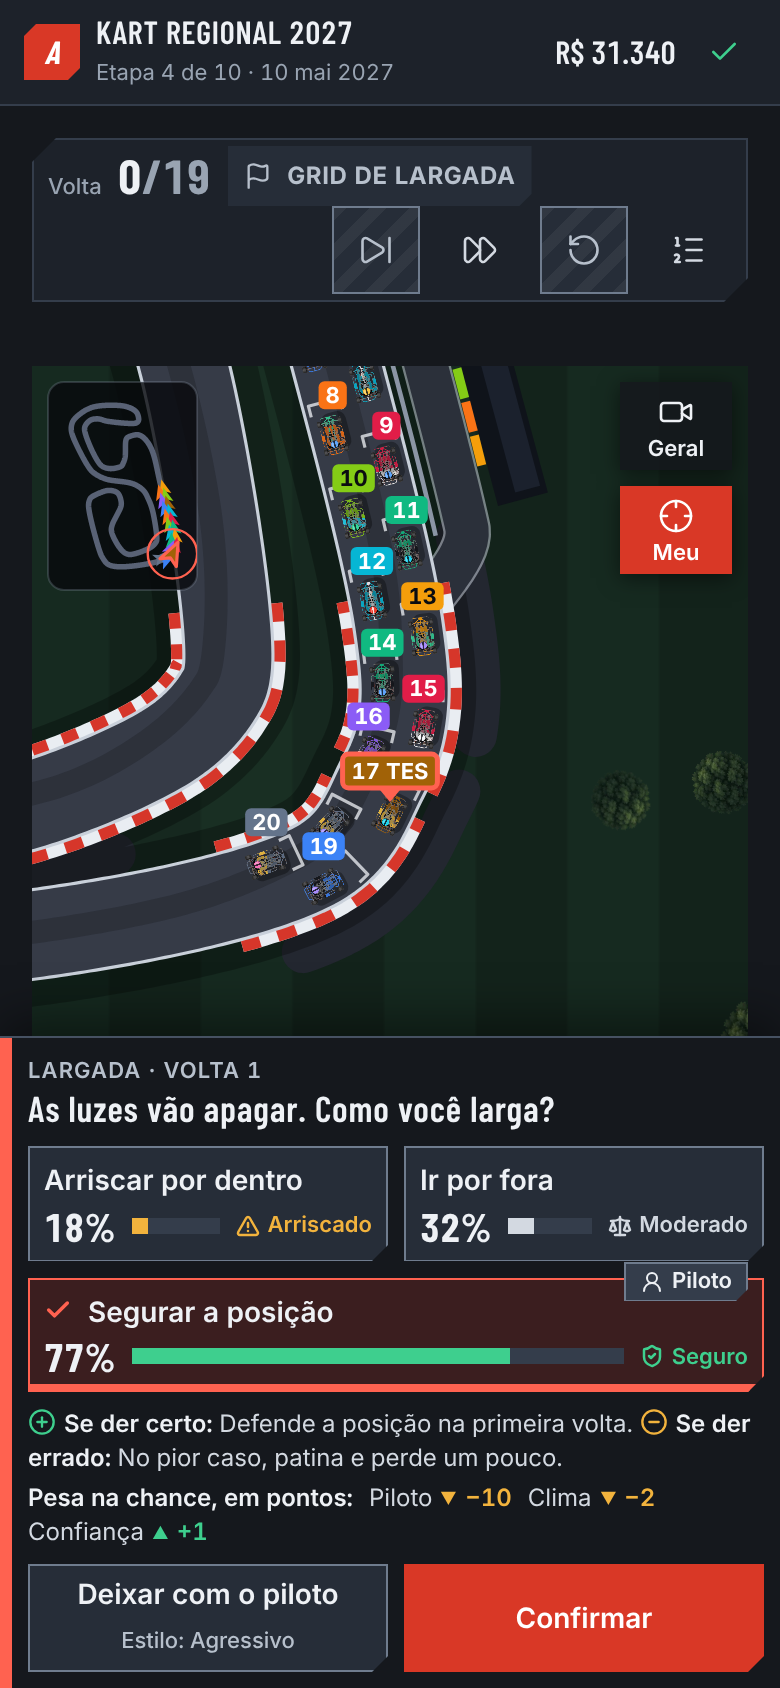
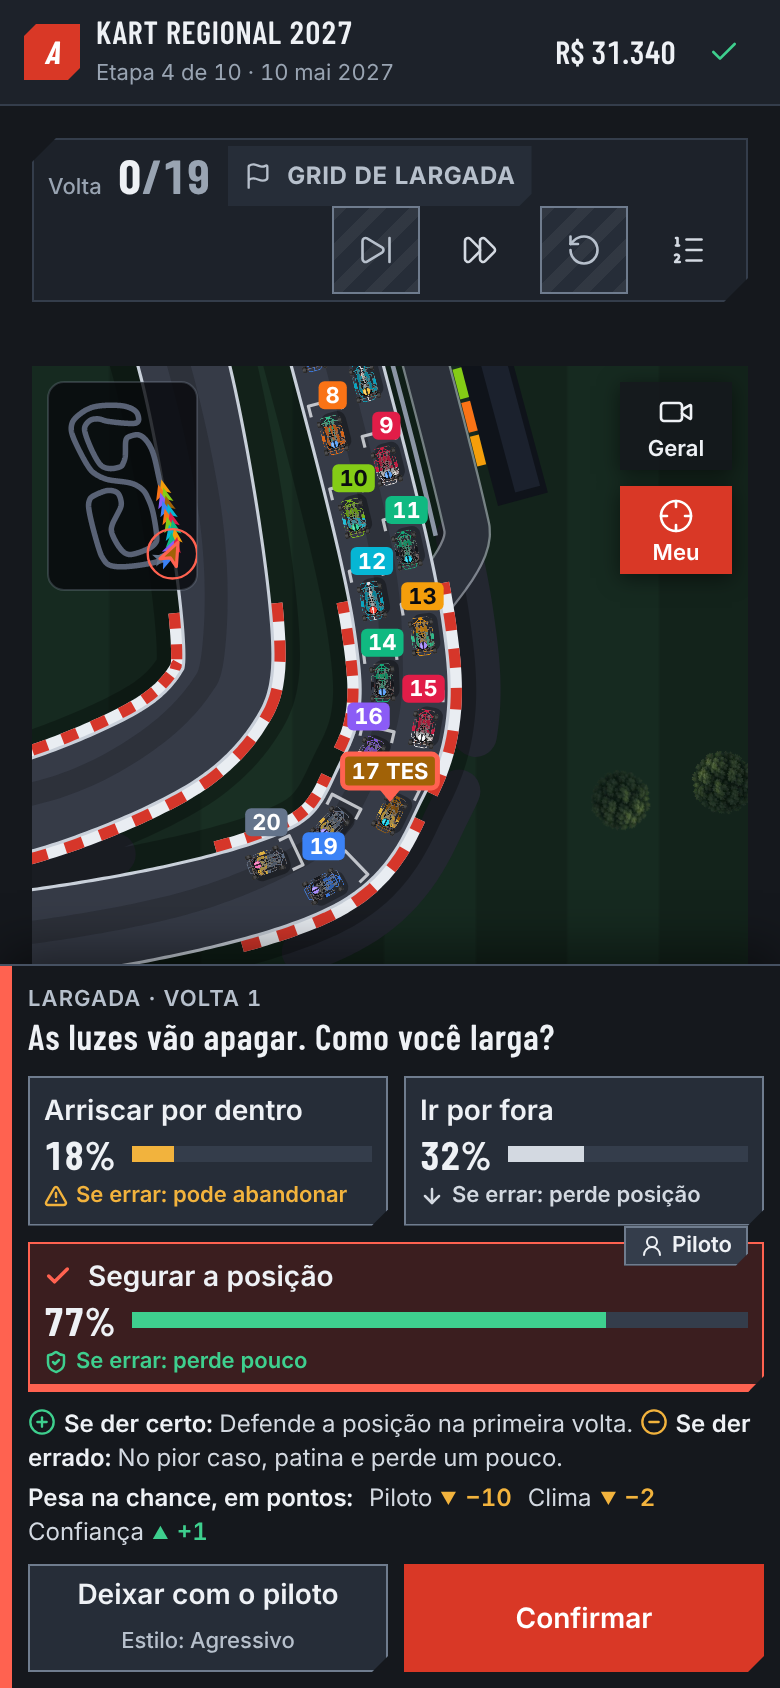
Fase 4: a opção do lance mostra "Se errar: …" no lugar de Seguro/Moderado/Arriscado
Ao lado da chance, o rótulo de risco parecia a nota da própria chance ("26% Seguro"
ao lado de "85% Arriscado"). Agora cada opção diz, numa linha só dela, o tamanho do
prejuízo se der errado: "Se errar: perde pouco", "perde posição" ou "pode abandonar".
A opção que não tem como dar errado mostra "Sem risco".

- O relatório do simulador mantém a coluna "Risco" com os nomes de antes (sai idêntico).
- Teste novo: só a opção que "pode abandonar" tem batida na conta; as outras não têm incidente.
- Prints refeitos; catálogo, Ajuda e documento de design acompanham.

Refs #19

Claude-Session: https://claude.ai/code/session_01Svp5tgkZadUDz3TveggxDZ

Changed region(s): [[0.0, 0.5545, 0.9846, 0.8318]]

diff --git a/src/ui/kit/Decision.tsx b/src/ui/kit/Decision.tsx
@@ -6,13 +6,14 @@
  * - `DecisionBar` é a moldura. Quem a usa decide onde ela fica (presa ao pé da tela, na corrida) e
  *   o que entra em cada parte. É um diálogo que não trava o resto da tela: a pista continua à
  *   vista atrás e acima dela.
- * - `ChanceOption` é o botão de cada opção: o nome, a chance de dar certo em número e em barra e
- *   o risco em palavra, com ícone. A cor acompanha, nunca vai sozinha, e não existe vermelho para
- *   "ruim": seguro é verde, moderado é neutro e arriscado é âmbar.
+ * - `ChanceOption` é o botão de cada opção: o nome, a chance de dar certo em número e em barra e,
+ *   na linha de baixo, o tamanho do prejuízo se der errado ("Se errar: perde pouco", "perde
+ *   posição", "pode abandonar"), com ícone. A cor acompanha, nunca vai sozinha, e não existe
+ *   vermelho para "ruim": perder pouco é verde, perder posição é neutro e poder abandonar é âmbar.
  */
-import { Check, Scale, ShieldCheck, TriangleAlert } from 'lucide-react';
+import { ArrowDown, Check, ShieldCheck, TriangleAlert } from 'lucide-react';
 import type { ReactNode, Ref } from 'react';
-import { MOMENT_RISK_LABELS } from '@/domain/labels';
+import { MOMENT_LOSS_LABELS, MOMENT_NO_LOSS_LABEL } from '@/domain/labels';
 import { cx, type Tone } from './cx';
 import { ProgressBar } from './ProgressBar';
 
@@ -93,7 +94,7 @@ export function DecisionBar({
 
 const RISK_TONE: Record<0 | 1 | 2, Tone> = { 0: 'good', 1: 'neutral', 2: 'attention' };
 const RISK_TEXT: Record<0 | 1 | 2, string> = { 0: 'text-go-400', 1: 'text-ink-200', 2: 'text-gold-400' };
-const RISK_ICON = { 0: ShieldCheck, 1: Scale, 2: TriangleAlert } as const;
+const RISK_ICON = { 0: ShieldCheck, 1: ArrowDown, 2: TriangleAlert } as const;
 
 export function ChanceOption({
   label,
@@ -110,7 +111,7 @@ export function ChanceOption({
   label: string;
   /** Chance de dar certo, de 0 a 1. */
   chance: number;
-  /** 0 = seguro, 1 = moderado, 2 = arriscado. */
+  /** O prejuízo se der errado: 0 = perde pouco, 1 = perde posição, 2 = pode abandonar. */
   risk: 0 | 1 | 2;
   selected: boolean;
   onSelect: () => void;
@@ -125,13 +126,15 @@ export function ChanceOption({
 }) {
   const percent = Math.round(chance * 100);
   const Icon = RISK_ICON[risk];
+  // Chance de 100% é a opção que não tem como dar errado: não há "se errar" a mostrar.
+  const loss = chance >= 1 ? MOMENT_NO_LOSS_LABEL : `Se errar: ${MOMENT_LOSS_LABELS[risk]}`;
   return (
     <div className={cx('relative flex min-w-0', className)}>
       <button
         type="button"
         role="radio"
         aria-checked={selected}
-        aria-label={`${label}: ${percent}% de chance de dar certo, ${MOMENT_RISK_LABELS[risk].toLowerCase()}${badgeLabel ? `, ${badgeLabel}` : ''}`}
+        aria-label={`${label}: ${percent}% de chance de dar certo; ${loss.toLowerCase()}${badgeLabel ? `, ${badgeLabel}` : ''}`}
         onClick={onSelect}
         disabled={disabled}
         className={cx(
@@ -154,10 +157,11 @@ export function ChanceOption({
         <span className="flex w-full items-center gap-2">
           <span className="shrink-0 font-display text-xl font-bold leading-none">{percent}%</span>
           <ProgressBar value={percent} tone={RISK_TONE[risk]} className="min-w-4 flex-1" />
-          <span className={cx('flex shrink-0 items-center gap-1 text-2xs font-semibold leading-none', RISK_TEXT[risk])}>
-            <Icon size={12} strokeWidth={2.5} aria-hidden className="shrink-0" />
-            {MOMENT_RISK_LABELS[risk]}
-          </span>
+        </span>
+        {/* O prejuízo fica numa linha só dele, por extenso: ao lado do número ele parecia a nota da chance. */}
+        <span className={cx('flex w-full items-center gap-1 text-2xs font-semibold leading-tight', RISK_TEXT[risk])}>
+          <Icon size={12} strokeWidth={2.5} aria-hidden className="shrink-0" />
+          <span className="min-w-0">{loss}</span>
         </span>
       </button>
       {seal && (

diff --git a/src/ui/screens/HelpScreen.tsx b/src/ui/screens/HelpScreen.tsx
@@ -84,7 +84,7 @@ const TOPICS: { id: string; title: string; icon: LucideIcon; items: string[] }[]
       `${capitalize(categoryRef(FIRST_FORMULA_CATEGORY_ID, 'de'))} em diante há estratégia de pneus, paradas, combustível, safety car e chuva que muda no meio da prova.`,
       'As decisões pendentes (eventos) precisam ser resolvidas antes de abrir o fim de semana.',
       'A corrida é mostrada na pista e anda sozinha: em 1×, uma prova inteira leva poucos minutos. Controle a transmissão com Pausar, 1× a 8× e +1 volta, e escolha entre a câmera geral e a que acompanha o seu carro. Tocar num piloto da classificação (ou num carro) o destaca.',
-      `Lances decisivos: de ${RACE_MOMENTS.MIN_PER_RACE} a ${RACE_MOMENTS.MAX_PER_RACE} por corrida, e a largada é sempre um deles (os outros: ataque, defesa, chuva começando, parada e última volta). A corrida para, sem tempo limite, e a tarja mostra cada opção com a chance de dar certo, o risco (seguro, moderado ou arriscado), o que se ganha e o que se perde. Toque numa opção e depois em Confirmar. O desfecho aparece na pista, e um toque numa disputa pode virar rivalidade.`,
+      `Lances decisivos: de ${RACE_MOMENTS.MIN_PER_RACE} a ${RACE_MOMENTS.MAX_PER_RACE} por corrida, e a largada é sempre um deles (os outros: ataque, defesa, chuva começando, parada e última volta). A corrida para, sem tempo limite, e a tarja mostra cada opção com a chance de dar certo, o tamanho do prejuízo se der errado (perde pouco, perde posição ou pode abandonar), o que se ganha e o que se perde. Toque numa opção e depois em Confirmar. O desfecho aparece na pista, e um toque numa disputa pode virar rivalidade.`,
       'Deixar com o piloto entrega o lance ao estilo dele (cauteloso, equilibrado ou agressivo), que sai dos atributos, da confiança e do ritmo escolhido; o painel Piloto da corrida mostra qual é.',
       'Pneus: o desgaste aparece em porcentagem e em palavra (novo, bom, gasto, no limite, acabado). Cada composto tem o seu penhasco, marcado na barra: passou dali, o pneu perde segundos por volta. A tela mostra o gráfico dos tempos de volta e a janela ideal de parada; no kart, que não troca pneus, a volta em que o pneu cai do penhasco.',
       'O engenheiro fala pelo rádio só quando importa: pneu no limite, janela de parada aberta, rival que parou, carro encostando, chuva chegando.',

diff --git a/tests/moments.test.ts b/tests/moments.test.ts
@@ -13,7 +13,15 @@
  */
 import { describe, expect, it } from 'vitest';
 import { APTITUDE_EFFECTS, HISTORY_LIMITS, RACE_MOMENTS, TRAIT_EFFECTS } from '@/config/balance';
-import { DRIVING_STYLE_DESCRIPTIONS, DRIVING_STYLE_LABELS, MOMENT_FACTOR_LABELS, MOMENT_KIND_LABELS, MOMENT_RISK_LABELS } from '@/domain/labels';
+import {
+  DRIVING_STYLE_DESCRIPTIONS,
+  DRIVING_STYLE_LABELS,
+  MOMENT_FACTOR_LABELS,
+  MOMENT_KIND_LABELS,
+  MOMENT_LOSS_LABELS,
+  MOMENT_NO_LOSS_LABEL,
+  MOMENT_RISK_LABELS,
+} from '@/domain/labels';
 import {
   MOMENT_KINDS,
   MOMENT_OUTCOMES,
@@ -703,6 +711,23 @@ describe('as chances saem dos atributos, do carro, da pista e do clima', () => {
     // Depois de cumprir a regra, qualquer composto de pista seca serve.
     const done: RaceSimState = { ...state, cars: state.cars.map((c) => (c.driverId === f1.playerId ? { ...c, compoundsUsed: ['hard', 'soft'] } : c)) };
     expect(upcomingMoment(done, f1.ctx)?.compounds).toEqual([...f1.ctx.category.race.dryCompounds]);
+  });
+
+  it('o rótulo "Se errar" de cada opção diz a verdade: só a opção que pode abandonar tem batida, toque ou rodada', () => {
+    const rules: Record<string, Record<string, { risk: 0 | 1 | 2; crash?: number; spin?: number; contact?: number; sure?: boolean }>> = M.OPTIONS;
+    expect(Object.values(MOMENT_LOSS_LABELS)).toEqual(['perde pouco', 'perde posição', 'pode abandonar']);
+    expect(MOMENT_NO_LOSS_LABEL).toBe('Sem risco');
+    for (const [kind, options] of Object.entries(rules)) {
+      for (const [id, rule] of Object.entries(options)) {
+        const where = `${kind}.${id}`;
+        const danger = (rule.crash ?? 0) + (rule.spin ?? 0) + (rule.contact ?? 0);
+        // "Pode abandonar": existe batida na conta. "Perde pouco" e "perde posição": nenhum incidente.
+        if (rule.risk === 2) expect(rule.crash ?? 0, where).toBeGreaterThan(0);
+        else expect(danger, where).toBe(0);
+        // "Sem risco" (chance de 100%) só na opção que não tem como dar errado, e ela não tem incidente.
+        if (rule.sure) expect(rule.risk, where).toBe(0);
+      }
+    }
   });
 
   it('os fatores explicam a chance: sem repetição, sem zeros, do que mais pesa para o que menos pesa, e com o sinal coerente', () => {

diff --git a/e2e/apoio.ts b/e2e/apoio.ts
@@ -123,15 +123,15 @@ export function opcoesDoLance(page: Page): Locator {
 /**
  * Como responder a um lance:
  * - 'piloto': o botão "Deixar com o piloto" (o piloto decide pelo estilo dele);
- * - 'segura': a primeira opção de menor risco (segura; sem ela, moderada), e "Confirmar";
- * - 'ousada': a primeira de maior risco, e "Confirmar";
+ * - 'segura': a primeira opção de menor prejuízo se der errado ("sem risco" ou "perde pouco"; sem elas, "perde posição"), e "Confirmar";
+ * - 'ousada': a primeira de maior prejuízo ("pode abandonar"), e "Confirmar";
  * - uma expressão: a opção cujo nome acessível casa com ela ("Mergulhar na freada: 77% de chance..."), e "Confirmar".
  */
 export type RespostaAoLance = 'piloto' | 'segura' | 'ousada' | RegExp;
 
-const RISCOS = ['seguro', 'moderado', 'arriscado'] as const;
+const RISCOS = ['sem risco', 'se errar: perde pouco', 'se errar: perde posição', 'se errar: pode abandonar'] as const;
 
-/** Marca uma opção do lance aberto, sem confirmar, e devolve o nome acessível dela (rótulo, chance e risco). */
+/** Marca uma opção do lance aberto, sem confirmar, e devolve o nome acessível dela (rótulo, chance e prejuízo se errar). */
 export async function escolherOpcao(page: Page, resposta: Exclude<RespostaAoLance, 'piloto'>): Promise<string> {
   const opcoes = opcoesDoLance(page);
   await opcoes.first().waitFor();
@@ -139,9 +139,9 @@ export async function escolherOpcao(page: Page, resposta: Exclude<RespostaAoLanc
   let indice = -1;
   if (resposta instanceof RegExp) indice = nomes.findIndex((nome) => resposta.test(nome));
   else {
-    // O risco vem por extenso no nome da opção, depois da chance: "..., seguro" ou "..., seguro, escolha do piloto".
+    // O prejuízo vem por extenso no nome da opção, depois da chance: "...; se errar: perde pouco" ou "...; se errar: perde pouco, escolha do piloto".
     for (const risco of resposta === 'segura' ? RISCOS : [...RISCOS].reverse()) {
-      indice = nomes.findIndex((nome) => new RegExp(`, ${risco}(,|$)`).test(nome));
+      indice = nomes.findIndex((nome) => new RegExp(`; ${risco}(,|$)`).test(nome));
       if (indice >= 0) break;
     }
   }

diff --git a/e2e/telas.spec.ts b/e2e/telas.spec.ts
@@ -93,8 +93,8 @@ for (const formato of TELAS) {
       await expect(largada.getByRole('button', { name: 'Confirmar' })).toBeDisabled();
       await expect(largada.getByRole('button', { name: 'Deixar com o piloto' })).toBeEnabled();
       await conferirTela(page, 'corrida-lance-largada', formato.nome);
-      // Uma opção marcada: a chance e o risco estão no nome dela; a tarja diz o que se ganha, o que se perde e o que pesa.
-      expect(await escolherOpcao(page, 'segura')).toMatch(/^.+: \d+% de chance de dar certo, seguro/);
+      // Uma opção marcada: a chance e o prejuízo se errar estão no nome dela; a tarja diz o que se ganha, o que se perde e o que pesa.
+      expect(await escolherOpcao(page, 'segura')).toMatch(/^.+: \d+% de chance de dar certo; (se errar: perde pouco|sem risco)/);
       await expect(largada).toContainText('Se der certo:');
       await expect(largada).toContainText('Se der errado:');
       await expect(largada).toContainText('Pesa na chance, em pontos:');

diff --git a/src/domain/labels.ts b/src/domain/labels.ts
@@ -278,5 +278,13 @@ export const MOMENT_FACTOR_LABELS: Record<'driver' | 'rival' | 'car' | 'crew' | 
   profile: 'Nascença',
 };
 
-/** Risco de uma opção de lance, em palavras (acompanha o ícone e a cor). */
+/** Classe de risco de uma opção de lance. Só para tabelas de análise (o relatório do simulador): na tela vale `MOMENT_LOSS_LABELS`. */
 export const MOMENT_RISK_LABELS: Record<0 | 1 | 2, string> = { 0: 'Seguro', 1: 'Moderado', 2: 'Arriscado' };
+
+/**
+ * O tamanho do prejuízo se a opção der errado, que é o que a classe de risco quer dizer. Na tela vem
+ * depois de "Se errar:", ao lado da chance: assim ninguém lê "26% · seguro" como chance de acerto.
+ */
+export const MOMENT_LOSS_LABELS: Record<0 | 1 | 2, string> = { 0: 'perde pouco', 1: 'perde posição', 2: 'pode abandonar' };
+/** A opção que não tem como dar errado (ceder a posição) não tem prejuízo a mostrar. */
+export const MOMENT_NO_LOSS_LABEL = 'Sem risco';

diff --git a/src/ui/dev/CatalogScreen.tsx b/src/ui/dev/CatalogScreen.tsx
@@ -583,8 +583,8 @@ export default function CatalogScreen() {
           </div>
           <p className="text-xs text-ink-400">
             A pergunta que para a corrida, sem tempo limite: rótulo, pergunta, opções, o detalhe da opção escolhida e as ações (a principal embaixo, à direita).
-            Cada opção mostra a chance em número e em barra e o risco em palavra, com ícone: seguro é verde, moderado é neutro e arriscado é âmbar. Tocar
-            seleciona; "Confirmar" envia. O selo marca a opção que o piloto escolheria.
+            Cada opção mostra a chance em número e em barra e, embaixo, o tamanho do prejuízo se der errado, com ícone: perder pouco é verde, perder posição é
+            neutro e poder abandonar é âmbar. Tocar seleciona; "Confirmar" envia. O selo marca a opção que o piloto escolheria.
           </p>
         </Section>
       </div>

diff --git a/GAME_DESIGN.md b/GAME_DESIGN.md
@@ -232,6 +232,8 @@ O lance aparece na tarja inferior, como na TV, com a pergunta, as opções, a ch
 | **Parada**          | a até 2 voltas da parada planejada (só nas categorias com boxes, no seco) | Parar agora (undercut)   | moderado  | parada limpa e 2 voltas de saída 0,25% mais rápidas            | a parada sai 2,5 s mais lenta                                       |
 |                     |                                                                           | Esticar (overcut)        | moderado  | 3 voltas a mais com 25% menos desgaste e pista livre           | 3 voltas 0,5% mais lentas até a parada                              |
 
+Na tela, a coluna "Risco" aparece como o tamanho do prejuízo, logo abaixo da chance: "Se errar: perde pouco" (seguro), "Se errar: perde posição" (moderado) ou "Se errar: pode abandonar" (arriscado). A opção que não tem como dar errado mostra "Sem risco".
+
 Na parada o jogador também escolhe o composto (respeitando a regra dos dois compostos).
 
 - **A chance** é `sigmoide(base da opção + termos)`, limitada a 5%–97%, e é a mesma conta que resolve o lance. Entram: os atributos do piloto em relação ao nível do grid da categoria (e, nas disputas, os do rival), a vantagem de ritmo em pista livre (pneus, composto, dano, combustível), a dificuldade de ultrapassar e a sensibilidade a motor da pista, a diferença de motor, a equipe de box, a confiança, a umidade da pista com a nota de chuva de cada um, e os talentos e defeitos de nascença. "Esperar o erro" depende só do rival: consistência, concentração, pneus dele no limite e chuva. A tela mostra os fatores que mais pesam, em pontos percentuais.
